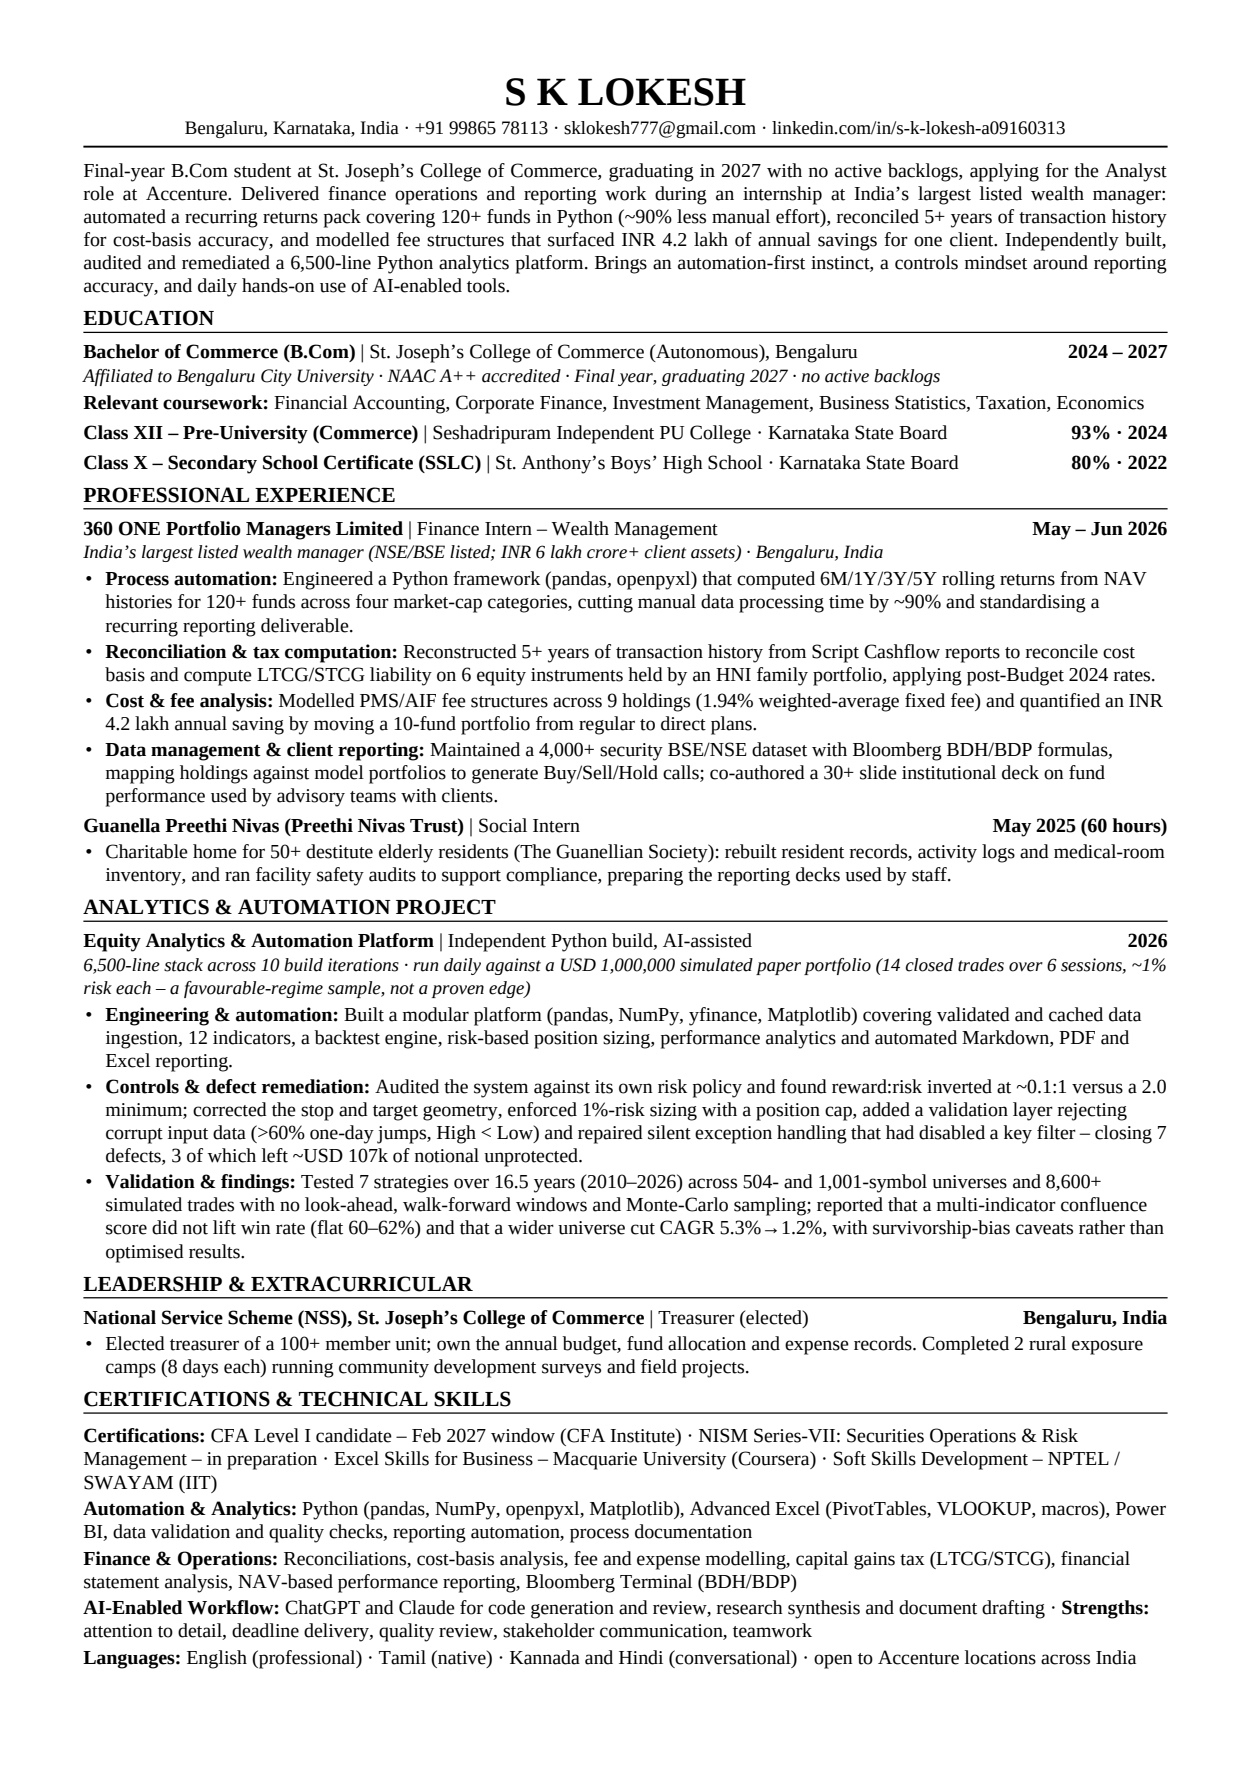
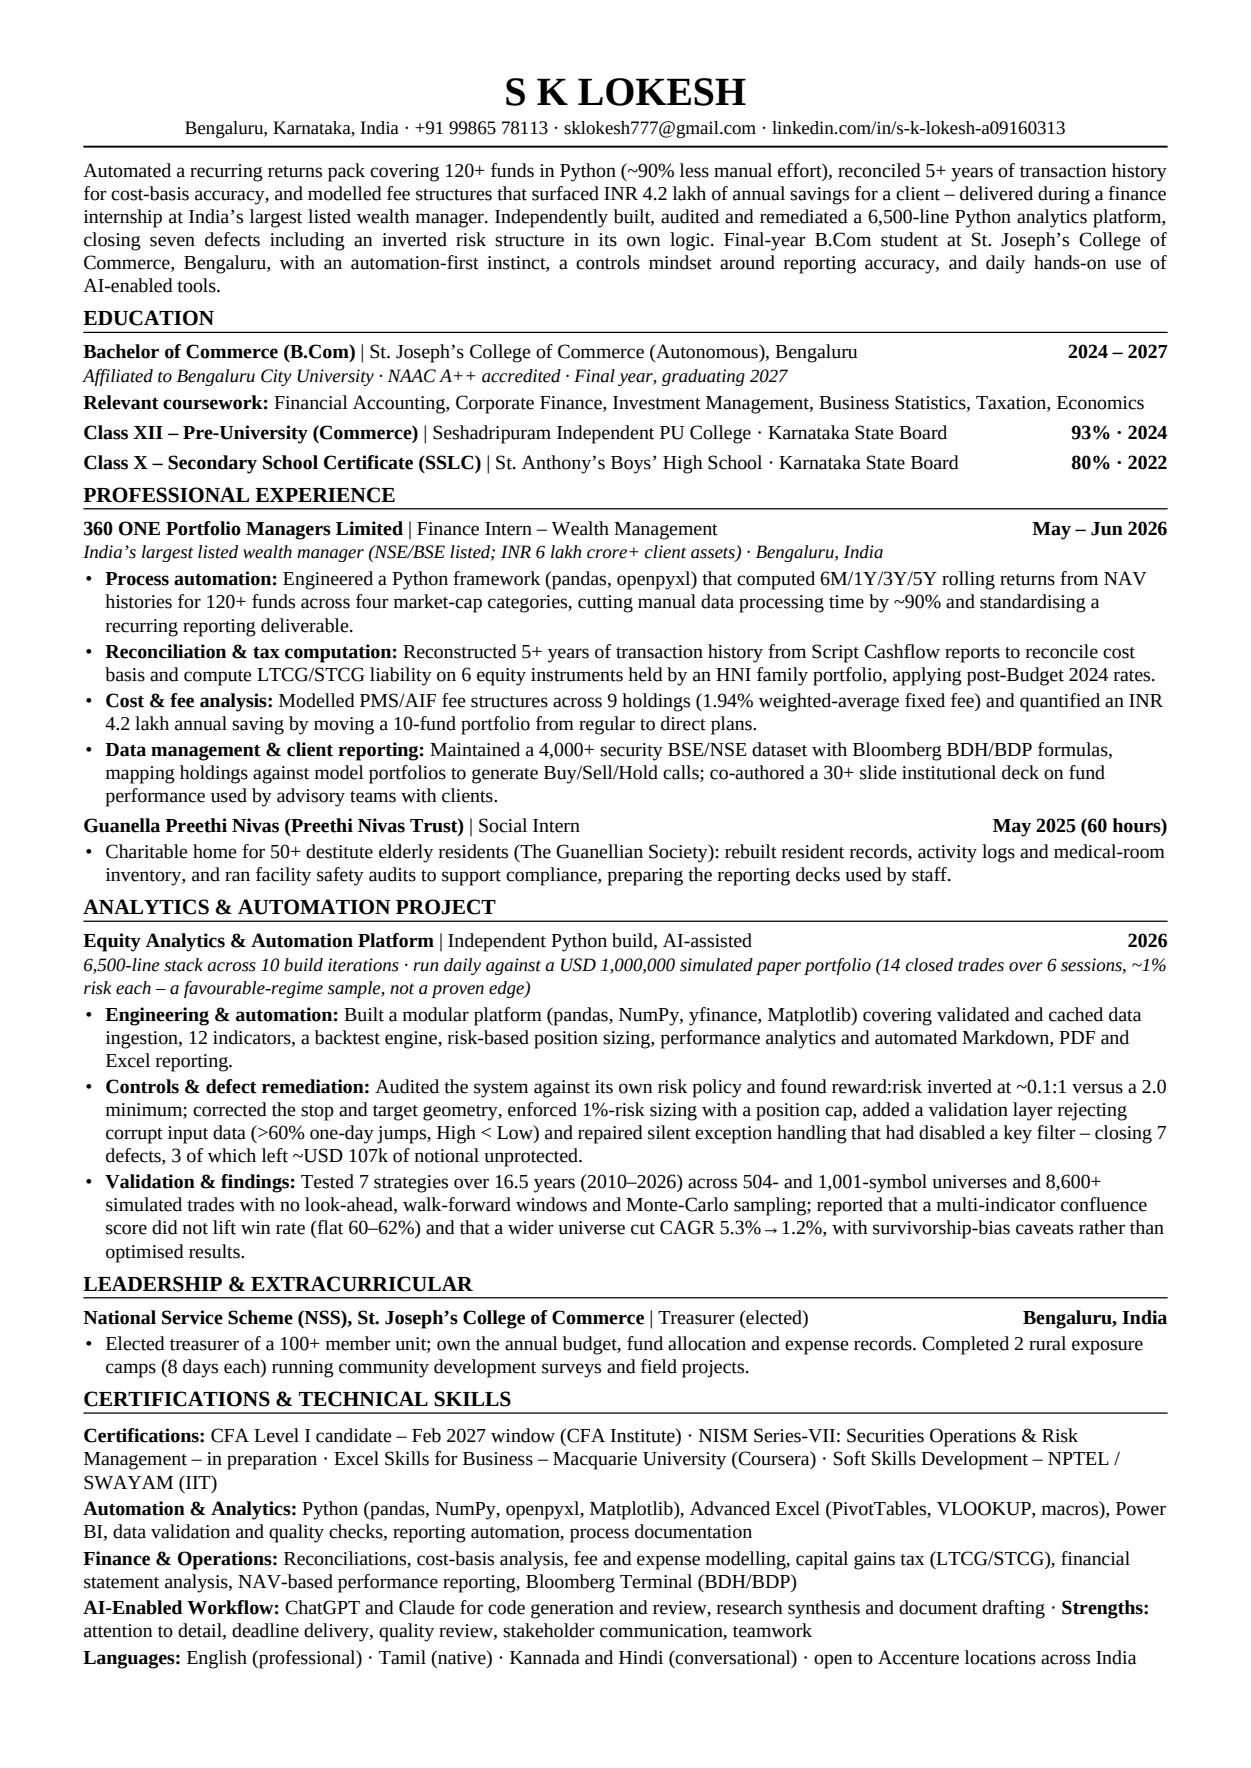
Cut eligibility restatement from Accenture resume
- Summary rewritten to open on quantified outcomes (120+ funds automated,
  5+ years reconciled, INR 4.2 lakh saved) and identify the candidate only
  afterwards; drops 'applying for the Analyst role' and 'no active backlogs'
- Education block: backlog tag removed; graduation year now stated once
- Achievement bullets untouched
- Editorial rule recorded in the content file and README, with a build-time
  audit of the phrases that must not reappear
- Still one page in both PDF and Word; PDF/DOCX text identical (1.0000)

Changed region(s): [[0.0624, 0.0933, 0.9353, 0.1867], [0.6859, 0.1867, 0.7482, 0.2178]]

diff --git a/resume/resume_content_accenture.py b/resume/resume_content_accenture.py
@@ -25,6 +25,13 @@ genuinely done, simply framed in the vocabulary of the work.
 
 If the attached JD turns out to be a technology or consulting track, the ordering
 should change: the analytics/automation platform moves above the internship.
+
+EDITORIAL RULE (applied deliberately): nothing on this page restates the drive's
+eligibility criteria as if it were a selling point. No "applying for the Analyst
+role", no "no active backlogs", and the graduation year appears once, in the
+education block where a reader structurally expects it. Eligibility is proved by
+the registration form and the transcript, not by resume copy. The summary opens
+on quantified outcomes and only then identifies the candidate.
 """
 
 OUT_NAME = "S-K-Lokesh-Resume-Accenture"
@@ -44,13 +51,13 @@ CONTACT = [
 ]
 
 PROFILE = (
-    "Final-year B.Com student at St. Joseph's College of Commerce, graduating in 2027 with no active backlogs, "
-    "applying for the Analyst role at Accenture. Delivered finance operations and reporting work during an internship "
-    "at India's largest listed wealth manager: automated a recurring returns pack covering 120+ funds in Python "
-    "(~90% less manual effort), reconciled 5+ years of transaction history for cost-basis accuracy, and modelled fee "
-    "structures that surfaced INR 4.2 lakh of annual savings for one client. Independently built, audited and "
-    "remediated a 6,500-line Python analytics platform. Brings an automation-first instinct, a controls mindset around "
-    "reporting accuracy, and daily hands-on use of AI-enabled tools."
+    "Automated a recurring returns pack covering 120+ funds in Python (~90% less manual effort), reconciled 5+ years of "
+    "transaction history for cost-basis accuracy, and modelled fee structures that surfaced INR 4.2 lakh of annual "
+    "savings for a client \u2013 delivered during a finance internship at India's largest listed wealth manager. "
+    "Independently built, audited and remediated a 6,500-line Python analytics platform, closing seven defects "
+    "including an inverted risk structure in its own logic. Final-year B.Com student at St. Joseph's College of "
+    "Commerce, Bengaluru, with an automation-first instinct, a controls mindset around reporting accuracy, and daily "
+    "hands-on use of AI-enabled tools."
 )
 
 SECTIONS = [
@@ -62,8 +69,7 @@ SECTIONS = [
                 "type": "entry",
                 "left": "<b>Bachelor of Commerce (B.Com)</b>  |  St. Joseph's College of Commerce (Autonomous), Bengaluru",
                 "right": "<b>2024 \u2013 2027</b>",
-                "sub": "Affiliated to Bengaluru City University  &#183;  NAAC A++ accredited  &#183;  Final year, graduating 2027  "
-                       "&#183;  no active backlogs",
+                "sub": "Affiliated to Bengaluru City University  &#183;  NAAC A++ accredited  &#183;  Final year, graduating 2027",
                 "lines": [
                     "<b>Relevant coursework:</b> Financial Accounting, Corporate Finance, Investment Management, Business Statistics, "
                     "Taxation, Economics",

diff --git a/resume/README.md b/resume/README.md
@@ -139,8 +139,8 @@ led with **process automation, reconciliation, cost & fee analysis, data managem
 controls & defect remediation** — all genuine work, framed in the vocabulary of the role.
 
 Differences from the JPMC version:
-- Profile targets the Analyst role and states **graduating 2027, no active backlogs** (the two hard
-  eligibility gates) in the first sentence.
+- Summary opens on quantified outcomes (120+ funds automated, 5+ years reconciled, INR 4.2 lakh saved)
+  and only then identifies the candidate. It deliberately does **not** restate eligibility criteria.
 - Project section retitled **Analytics & Automation Project**, project renamed *Equity Analytics &
   Automation Platform*, and the controls/defect-remediation bullet promoted above the findings bullet.
 - Skills regrouped into *Automation & Analytics* and *Finance & Operations*; closes with openness to
@@ -158,6 +158,29 @@ internship; that is a five-minute change to `resume_content_accenture.py`.
    resume is subject to background verification. The resume reads **S K LOKESH**. If the PAN shows the
    initials expanded or the surname first, say so and the header will be matched to the legal name.
 2. **B.Com CGPA.** Accenture screens on degree, year of passing and CGPA. Still absent from both resumes.
-3. **No active backlogs** is asserted in the profile and education block — confirm it is accurate.
+3. **No active backlogs** is no longer stated anywhere on the resume (see editorial rule below);
+   eligibility is established by the registration form and transcript.
 4. PAN card upload is mandatory at registration, and both links (Accenture portal + college tracker) must
    be completed. PPT attendance is compulsory to sit the interviews.
+
+
+### Editorial rule: no eligibility restatement
+
+Nothing on the Accenture page repeats the drive's eligibility criteria as if it were a selling point.
+Removed deliberately:
+
+| Cut | Why |
+|---|---|
+| "applying for the Analyst role at Accenture" | The submission itself establishes the role; a summary should sell, not narrate the application |
+| "with no active backlogs" (summary) | Eligibility gate, proved by transcript and registration form, not resume copy |
+| "no active backlogs" (education block) | Same, and not a line recruiters expect on a resume |
+| Graduation year stated twice | Now appears once, in the education block where a reader structurally expects it |
+
+Audited programmatically after each build: `no active backlogs` x0, `applying for the Analyst role` x0,
+`graduating 2027` x1, `Final year` x1, `open to Accenture locations` x1.
+
+Two remaining repetitions are **summary-to-detail**, not eligibility restatement, and were left in place
+by design — flag them if you want either cut:
+- *"India's largest listed wealth manager"* appears in the summary (as the credibility hook) and again in
+  the experience descriptor (with the NSE/BSE listing and asset figure).
+- *"6,500-line ... platform"* appears in the summary and again in the project descriptor.
